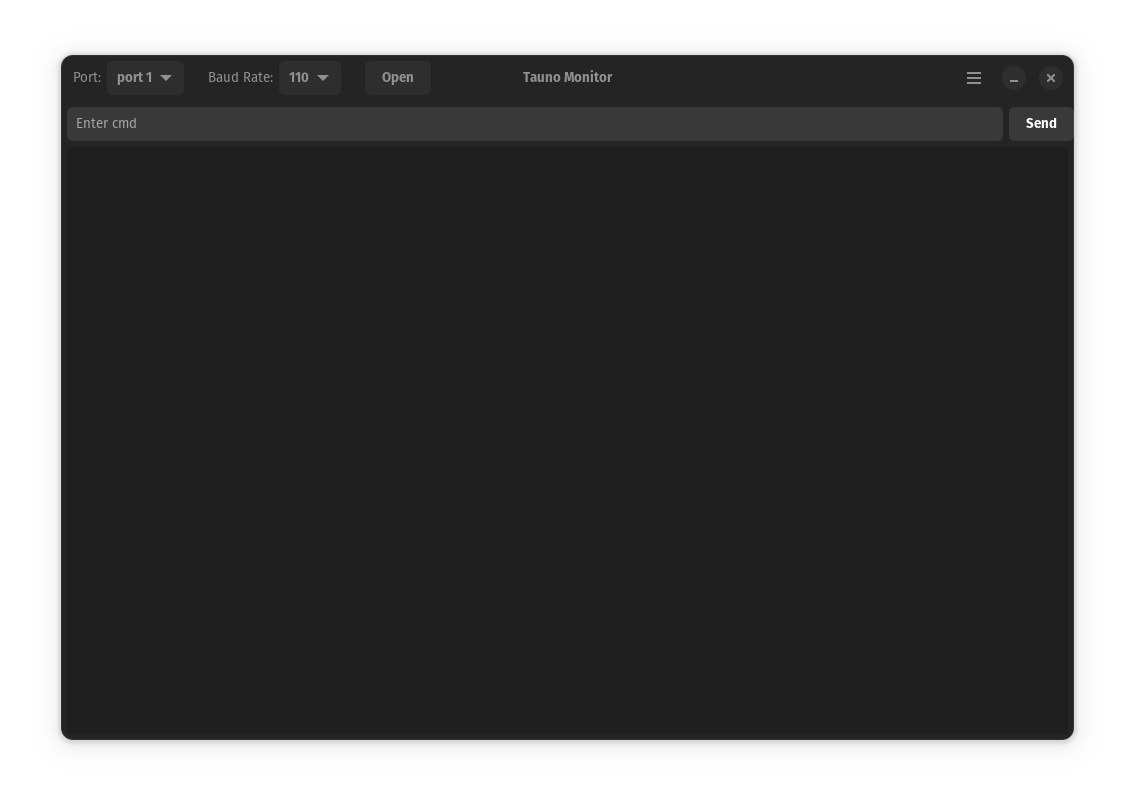
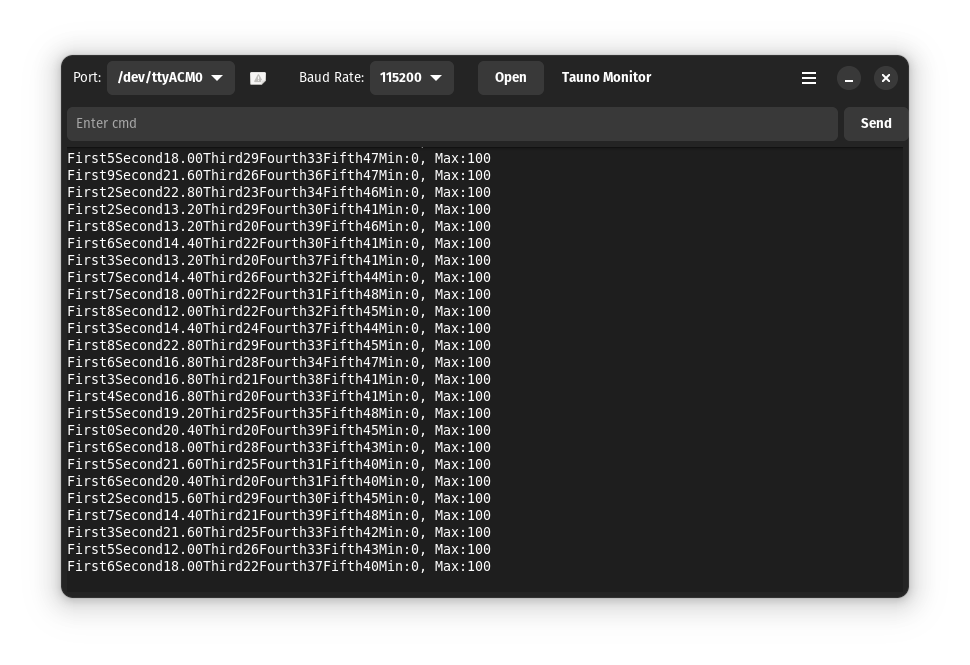
autoscroll

Changed region(s): [[0.0309, 0.0602, 0.9588, 0.9323]]

diff --git a/src/window.py b/src/window.py
@@ -50,19 +50,19 @@ class TaunoMonitorWindow(Adw.ApplicationWindow):
 
         # Button Open action
         open_action = Gio.SimpleAction(name="open")
-        open_action.connect("activate", self.open_serial_port)
+        open_action.connect("activate", self.btn_open)
         self.add_action(open_action)
 
         # Button Send
         send_action = Gio.SimpleAction(name="send")
-        send_action.connect("activate", self.send_to_serial_port)
+        send_action.connect("activate", self.btn_send)
         self.add_action(send_action)
 
         # list available serial ports
         self.scan_serial_ports()
 
         # Get Serial instance, open later
-        self.myserial = serial.Serial()
+        self.tauno_serial = TaunoSerial(window_reference=self)
 
 
     def scan_serial_ports(self):
@@ -76,97 +76,135 @@ class TaunoMonitorWindow(Adw.ApplicationWindow):
             #print(port[1])  # info
 
 
-    def open_serial_port(self, action, _):
+    def btn_open(self, action, _):
         print("Btn Open")
 
-        # Close if open
-        if self.myserial.is_open:
-            self.myserial.close()
-            if self.myserial.is_open is False:
-                print("Serial is closed")
-                self.open_button.set_label("Open")
-        # Open Serial
+        # Selected Port
+        port_obj = self.port_drop_down.get_selected_item()
+        selected_port = port_obj.get_string()
+        print(selected_port)
+
+        # selected Baud Rate
+        baud_obj = self.baud_drop_down.get_selected_item()
+        selected_baud_rate = baud_obj.get_string()
+        print(selected_baud_rate)
+
+        self.tauno_serial.open(selected_port, selected_baud_rate)
+
+        if self.tauno_serial.is_open:
+            self.open_button.set_label("Close")
         else:
-            # Selected Port
-            port_obj = self.port_drop_down.get_selected_item()
-            selected_port = port_obj.get_string()
-            print(selected_port)
-            # selected Baud Rate
-            baud_obj = self.baud_drop_down.get_selected_item()
-            selected_baud_rate = baud_obj.get_string()
-            print(selected_baud_rate)
-            # Open Serial import
-            self.myserial.baudrate = selected_baud_rate
-            self.myserial.port = selected_port
-            self.myserial.open()
+            self.open_button.set_label("Open")
 
-            if self.myserial.is_open:
-                print("Serial is open")
-                self.open_button.set_label("Close")
-
-            # Start read serial
-            self.read_serial_port()
-
-
-    def send_to_serial_port(self, action, _):
-        print("Btn Send")
-        buffer = self.send_cmd.get_buffer()
-        text = buffer.get_text()
-        print(f"Enter CMD: {text}")
-
-        if self.myserial.is_open:
-            self.myserial.write(text.encode('utf-8'))
-
-        buffer.delete_text(0, len(text))
-
-    def read_serial_port(self):
-        if self.myserial.is_open:
-
-            tauno_serial = TaunoSerial()
-
+        # Read serial
+        if self.tauno_serial.is_open:
             async_worker = AsyncWorker(
-                operation = tauno_serial.read,
-                operation_callback = tauno_serial.close
+                operation = self.tauno_serial.read,
+                operation_callback = self.read_finished
             )
             async_worker.start()
 
+    def read_finished(self, worker, result, handler_data):
+        """Handle the RESULT of the asynchronous operation performed by
+        WORKER.
+
+        WORKER (AsyncWorker)
+          The worker performing the asynchronous operation.
+
+        RESULT (Gio.AsyncResult)
+          The asynchronous result of the asynchronous operation.
+
+        HANDLER_DATA (None)
+          Additional data passed to this handler by the worker when the
+          job is done. It should be None in this case.
+        """
+        outcome = worker.return_value(result)
+        print("read_finished:")
+        print(outcome)
 
 
-    def async_read(self):
-        print("async_read")
+    def update(self, data):
+        print("update:")
+        print(data)
+        # Update text-view
         try:
-            data_in = self.myserial.readline().decode('utf8')
-            print(data_in)
+            buffer = self.input_text_view.get_buffer()
+            buffer.insert_at_cursor(data.decode('utf-8'))
+        except Exception as ex:
+            print(ex)
+
+        # Auto-scroll to end
+        try:
+            mark = buffer.get_insert()
+            self.input_text_view.scroll_to_mark(mark, 0.0,True, 0.0, 1.0)
         except Exception as ex:
             print(ex)
 
 
+    def btn_send(self, action, _):
+        print("Btn Send")
 
-    def add_serial_output_to_text_view(self, data):
-        try:
-            text = data.decode('utf-8')
-        except Exception:
-            print(Exception)
-            return
+        buffer = self.send_cmd.get_buffer()
+        text = buffer.get_text()
+        print(f"Entry: {text}")
 
-        buffer = self.input_text_view.get_buffer()
+        self.tauno_serial.write(text)
+
+        buffer.delete_text(0, len(text))
 
 
 class TaunoSerial():
 
-    def init(self):
-        self.serial_instance = serial.Serial()
+    def __init__(self, window_reference):
+        self.window_reference = window_reference
+        print("Tauno Serial Init")
+        self.is_open = False
+        self.myserial = serial.Serial()
 
-    def open(self):
-        print("Tauno Serial Open")
+    def open(self, port, baud):
+        print("Tauno Serial Open()")
+
+        # Close if already open
+        if self.myserial.is_open:
+            self.close()
+        else:
+            # Open Serial import
+            self.myserial.baudrate = baud
+            self.myserial.port = port
+            self.myserial.open()
+
+            if self.myserial.is_open:
+                self.is_open = True
+                print("Serial is open")
+
 
     def close(self):
-        print("Tauno Serial Close")
+        print("Tauno Serial Close()")
+        self.myserial.close()
+        if self.myserial.is_open is False:
+            self.is_open = False
+            print("Serial is closed")
 
 
     def read(self):
-        time.sleep(1)
-        print("Tauno Serial Read")
+        print("Tauno Serial Read()")
+
+        while self.is_open:
+            try:
+                data_in = self.myserial.readline()#.decode('utf8')
+                #return data_in
+                self.window_reference.update(data_in)
+            except Exception as ex:
+                print(ex)
+
+
+    def write(self, data):
+        print("Tauno Serial Write()")
+
+        print(f"Write: {data}")
+
+        if self.myserial.is_open:
+            self.myserial.write(data.encode('utf-8'))
 
 
 
